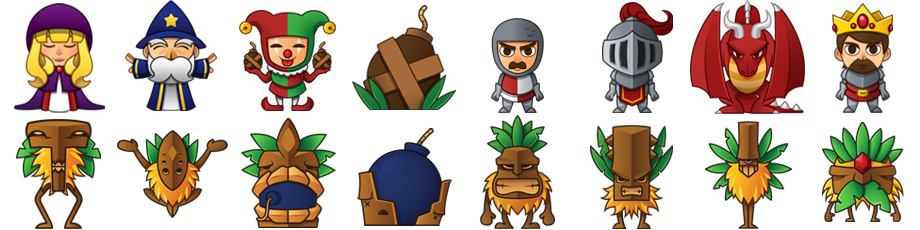
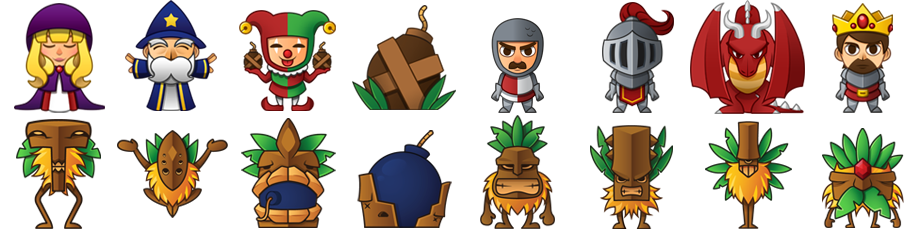
Switchable army

diff --git a/Proeve/States/ArmyEditorState.cs b/Proeve/States/ArmyEditorState.cs
@@ -25,6 +25,7 @@ namespace Proeve.States
 
         // Character
         private static Dictionary<Character.Rank, Sprite> armyDict;
+        private static Character.Army currentArmy;
 
         private Color SelectedColor { get { return Color.Black * .65f; } }
         private Character selectedCharacter;
@@ -49,6 +50,10 @@ namespace Proeve.States
         private Point startDragGridPosition;
         private float dragHoldTimer;
         private bool drag;
+
+        // Next Army Buttons
+        private Rectangle leftNextButtonHitbox { get { return new Rectangle(360, 196, 32, 50); } }
+        private Rectangle rightNextButtonHitbox { get { return new Rectangle(930, 196, 32, 50); } }
 
         public ArmyEditorState()
         {
@@ -103,12 +108,7 @@ namespace Proeve.States
 
             SelectCharacter(Armies.army[0]);
 
-            armyDict = new Dictionary<Character.Rank, Sprite>();
-            armyDict.Add(Character.Rank.Leader, ArtAssets.MedievalArmySheet); armyDict[Character.Rank.Leader].CurrentFrame = 8;
-            armyDict.Add(Character.Rank.General, ArtAssets.MedievalArmySheet); armyDict[Character.Rank.Leader].CurrentFrame = 7;
-            armyDict.Add(Character.Rank.Captain, ArtAssets.MedievalArmySheet); armyDict[Character.Rank.Leader].CurrentFrame = 6;
-            armyDict.Add(Character.Rank.Soldier, ArtAssets.MedievalArmySheet); armyDict[Character.Rank.Leader].CurrentFrame = 5;
-            armyDict.Add(Character.Rank.Bomb, ArtAssets.MedievalArmySheet); armyDict[Character.Rank.Leader].CurrentFrame = 8;     
+            SetArmyDictionary(Character.Army.Normal);
         }
 
         private void Ready()
@@ -145,6 +145,42 @@ namespace Proeve.States
                         {
                             SelectCharacter(c);
                         }
+
+                // Check switchable unit
+                foreach (KeyValuePair<Character.Rank, Sprite> entry in armyDict)
+                {
+                    Rectangle hitbox = new Rectangle((int)entry.Value.position.X, (int)entry.Value.position.Y, entry.Value.sourceRectangle.Width, entry.Value.sourceRectangle.Height);
+
+                    if (hitbox.Contains(Globals.mouseState.Position))
+                    {
+                        if (selectedCharacter.special == Character.Special.None)
+                        {
+                            if (selectedCharacter.rank == entry.Key)
+                                ChangeCharacter(entry.Key);
+                        }
+                        else
+                        {
+                            switch (entry.Key)
+                            {
+                                case Character.Rank.Spy:
+                                case Character.Rank.Miner:
+                                case Character.Rank.Healer:
+                                    ChangeCharacter(entry.Key);
+                                    break;
+                                case Character.Rank.Bomb:
+                                    if (selectedCharacter.rank == Character.Rank.Bomb)
+                                        ChangeCharacter(entry.Key);
+                                    break;
+                            }
+                        }
+                    }
+                }
+
+                if (leftNextButtonHitbox.Contains(Globals.mouseState.Position))
+                    SetArmyDictionary(currentArmy == Character.Army.Normal ? Character.Army.Tiki : Character.Army.Normal);
+
+                if (rightNextButtonHitbox.Contains(Globals.mouseState.Position))
+                    SetArmyDictionary(currentArmy == Character.Army.Normal ? Character.Army.Tiki : Character.Army.Normal);
             }
 
             if (drag && Globals.mouseState.LeftButtonReleased)
@@ -191,6 +227,52 @@ namespace Proeve.States
 
             dragHoldTimer = 0;
             startDragGridPosition = Grid.ToGridLocation(selectedCharacter.position.ToPoint(), gridLocation, Globals.TileDimensions);
+
+            
+        }
+
+        private void ChangeCharacter(Character.Rank rank)
+        {
+            Vector2 position = selectedCharacter.position;
+            int index = Armies.army.IndexOf(selectedCharacter);
+
+            Armies.army[index] = Armies.GetCharacter(rank, currentArmy);
+            Armies.army[index].position = position;
+
+            SelectCharacter(Armies.army[index]);
+        }
+
+        private void SetArmyDictionary(Character.Army army)
+        {
+            Sprite armySheet;
+
+            switch (army)
+            {
+                default:
+                case Character.Army.Normal: armySheet = ArtAssets.MedievalArmySheet; break;
+                case Character.Army.Tiki: armySheet = ArtAssets.TikiArmySheet; break;
+            }
+
+            armyDict = new Dictionary<Character.Rank, Sprite>();
+            armyDict.Add(Character.Rank.Leader, (Sprite)armySheet.Clone()); armyDict[Character.Rank.Leader].CurrentFrame = 8;
+            armyDict.Add(Character.Rank.General, (Sprite)armySheet.Clone()); armyDict[Character.Rank.General].CurrentFrame = 7;
+            armyDict.Add(Character.Rank.Captain, (Sprite)armySheet.Clone()); armyDict[Character.Rank.Captain].CurrentFrame = 6;
+            armyDict.Add(Character.Rank.Soldier, (Sprite)armySheet.Clone()); armyDict[Character.Rank.Soldier].CurrentFrame = 5;
+            armyDict.Add(Character.Rank.Bomb, (Sprite)armySheet.Clone()); armyDict[Character.Rank.Bomb].CurrentFrame = 4;
+            armyDict.Add(Character.Rank.Spy, (Sprite)armySheet.Clone()); armyDict[Character.Rank.Spy].CurrentFrame = 1;
+            armyDict.Add(Character.Rank.Miner, (Sprite)armySheet.Clone()); armyDict[Character.Rank.Miner].CurrentFrame = 3;
+            armyDict.Add(Character.Rank.Healer, (Sprite)armySheet.Clone()); armyDict[Character.Rank.Healer].CurrentFrame = 2;
+
+            armyDict[Character.Rank.Leader].position = new Vector2(422, 107);
+            armyDict[Character.Rank.General].position = new Vector2(542, 107);
+            armyDict[Character.Rank.Captain].position = new Vector2(662, 107);
+            armyDict[Character.Rank.Soldier].position = new Vector2(782, 107);
+            armyDict[Character.Rank.Bomb].position = new Vector2(422, 227);
+            armyDict[Character.Rank.Spy].position = new Vector2(542, 227);
+            armyDict[Character.Rank.Miner].position = new Vector2(662, 227);
+            armyDict[Character.Rank.Healer].position = new Vector2(782, 227);
+
+            currentArmy = army;
         }
 
         public override void Draw(SpriteBatch spriteBatch)
@@ -223,6 +305,29 @@ namespace Proeve.States
                 dragPos.Y = MathHelper.Clamp(dragPos.Y, GridArea.Top - H, GridArea.Bottom - H);
 
                 spriteBatch.DrawSprite(selectedCharacter.sprite, dragPos);
+            }
+
+            foreach (KeyValuePair<Character.Rank, Sprite> entry in armyDict)
+            {
+                entry.Value.Draw(spriteBatch);
+
+                if (selectedCharacter.rank != entry.Key)
+                {
+                    switch(entry.Key)
+                    {
+                        case Character.Rank.Miner:
+                        case Character.Rank.Spy:
+                        case Character.Rank.Healer:
+                            if (selectedCharacter.special == Character.Special.None || selectedCharacter.rank == Character.Rank.Bomb)
+                                goto default;
+                            break;
+                        default:
+                            Sprite clone = (Sprite)entry.Value.Clone();
+                            clone.colorEffect = Color.Black * .68f;
+                            clone.Draw(spriteBatch);
+                            break;
+                    }
+                }
             }
         }
 

diff --git a/Proeve/Resources/Armies.cs b/Proeve/Resources/Armies.cs
@@ -29,29 +29,28 @@ namespace Proeve.Resources
                 characters.Add(new List<Character>());
 
             characters[(int)Character.Rank.Leader].Add(new Character(ArtAssets.MedievalLeaderChip, AnimationAssets.MedievalLeader, 5, 2, Character.Rank.Leader));
-            characters[(int)Character.Rank.Leader].Add(new Character(ArtAssets.TikiLeaderChip, AnimationAssets.TikiLeader, 5, 2, Character.Rank.Leader));
+            characters[(int)Character.Rank.Leader].Add(new Character(ArtAssets.TikiLeaderChip, AnimationAssets.TikiLeader, 6, 1, Character.Rank.Leader));
 
             characters[(int)Character.Rank.General].Add(new Character(ArtAssets.MedievalGeneralChip, AnimationAssets.MedievalGeneral, 4, 2, Character.Rank.General));
-            characters[(int)Character.Rank.General].Add(new Character(ArtAssets.TikiGeneralChip, AnimationAssets.TikiGeneral, 4, 2, Character.Rank.General));
+            characters[(int)Character.Rank.General].Add(new Character(ArtAssets.TikiGeneralChip, AnimationAssets.TikiGeneral, 3, 3, Character.Rank.General));
 
-            characters[(int)Character.Rank.Captain].Add(new Character(ArtAssets.MedievalCaptainChip, AnimationAssets.MedievalCaptain, 3, 2, Character.Rank.Soldier));
-            characters[(int)Character.Rank.Captain].Add(new Character(ArtAssets.TikiCaptainChip, AnimationAssets.TikiCaptain, 3, 2, Character.Rank.Soldier));
+            characters[(int)Character.Rank.Captain].Add(new Character(ArtAssets.MedievalCaptainChip, AnimationAssets.MedievalCaptain, 3, 2, Character.Rank.Captain));
+            characters[(int)Character.Rank.Captain].Add(new Character(ArtAssets.TikiCaptainChip, AnimationAssets.TikiCaptain, 4, 1, Character.Rank.Captain));
 
             characters[(int)Character.Rank.Soldier].Add(new Character(ArtAssets.MedievalSoldierChip, AnimationAssets.MedievalSoldier, 2, 2, Character.Rank.Soldier));
-            characters[(int)Character.Rank.Soldier].Add(new Character(ArtAssets.TikiSoldierChip, AnimationAssets.TikiSoldier, 2, 2, Character.Rank.Soldier));
+            characters[(int)Character.Rank.Soldier].Add(new Character(ArtAssets.TikiSoldierChip, AnimationAssets.TikiSoldier, 3, 1, Character.Rank.Soldier));
 
-            characters[(int)Character.Rank.Spy].Add(new Character(ArtAssets.MedievalMinerChip, AnimationAssets.MedievalMiner, 1, 2, Character.Rank.Miner, Character.Army.Normal, Character.Special.Miner));
-            characters[(int)Character.Rank.Spy].Add(new Character(ArtAssets.TikiMinerChip, AnimationAssets.TikiMiner, 1, 2, Character.Rank.Miner, Character.Army.Normal, Character.Special.Miner));
+            characters[(int)Character.Rank.Spy].Add(new Character(ArtAssets.MedievalSpyChip, AnimationAssets.MedievalSpy, 1, 2, Character.Rank.Spy, Character.Army.Normal, Character.Special.Spy));
+            characters[(int)Character.Rank.Spy].Add(new Character(ArtAssets.TikiSpyChip, AnimationAssets.TikiSpy, 1, 2, Character.Rank.Spy, Character.Army.Normal, Character.Special.Spy));
 
             characters[(int)Character.Rank.Miner].Add(new Character(ArtAssets.MedievalMinerChip, AnimationAssets.MedievalMiner, 1, 2, Character.Rank.Miner, Character.Army.Normal, Character.Special.Miner));
-            characters[(int)Character.Rank.Miner].Add(new Character(ArtAssets.TikiMinerChip, AnimationAssets.TikiMiner, 1, 2, Character.Rank.Miner, Character.Army.Normal, Character.Special.Miner));
+            characters[(int)Character.Rank.Miner].Add(new Character(ArtAssets.TikiMinerChip, AnimationAssets.TikiMiner, 2, 1, Character.Rank.Miner, Character.Army.Normal, Character.Special.Miner));
 
-            characters[(int)Character.Rank.Healer].Add(new Character(ArtAssets.MedievalMinerChip, AnimationAssets.MedievalMiner, 1, 2, Character.Rank.Miner, Character.Army.Normal, Character.Special.Miner));
-            characters[(int)Character.Rank.Healer].Add(new Character(ArtAssets.TikiMinerChip, AnimationAssets.TikiMiner, 1, 2, Character.Rank.Miner, Character.Army.Normal, Character.Special.Miner));
+            characters[(int)Character.Rank.Healer].Add(new Character(ArtAssets.MedievalHealerChip, AnimationAssets.MedievalHealer, 1, 2, Character.Rank.Healer, Character.Army.Normal, Character.Special.Healer));
+            characters[(int)Character.Rank.Healer].Add(new Character(ArtAssets.TikiHealerChip, AnimationAssets.TikiHealer, 2, 1, Character.Rank.Healer, Character.Army.Normal, Character.Special.Healer));
 
             characters[(int)Character.Rank.Bomb].Add(new Character(ArtAssets.MedievalBombChip, AnimationAssets.MedievalBomb, 1, 1, Character.Rank.Bomb, Character.Army.Normal, Character.Special.Bomb));
             characters[(int)Character.Rank.Bomb].Add(new Character(ArtAssets.TikiBombChip, AnimationAssets.TikiBomb, 1, 1, Character.Rank.Bomb, Character.Army.Normal, Character.Special.Bomb));
-
         }
     }
 }

diff --git a/Proeve/Resources/ArtAssets.cs b/Proeve/Resources/ArtAssets.cs
@@ -135,7 +135,7 @@ namespace Proeve.Resources
 
         /* CHARACTERS */
         // Chips
-        public static Sprite MedievalSoldierChip { get { return (Sprite)tikiSoldierChipSprite.Clone(); } }
+        public static Sprite MedievalSoldierChip { get { return (Sprite)medievalSoldierChipSprite.Clone(); } }
         public static Sprite MedievalCaptainChip { get { return (Sprite)medievalCaptainChipSprite.Clone(); } }
         public static Sprite MedievalGeneralChip { get { return (Sprite)medievalGeneralChipSprite.Clone(); } }
         public static Sprite MedievalLeaderChip { get { return (Sprite)medievalLeaderChipSprite.Clone(); } }
@@ -267,8 +267,8 @@ namespace Proeve.Resources
             swordIconSprite = new Sprite(UISheet, new Rectangle(1293, 417, 86, 87), 2); swordIconSprite.Offset = new Point(1, 0); swordIconSprite.origin = axeIconSprite.Center;
             shieldIconSprite = new Sprite(UISheet, new Rectangle(1119, 417, 86, 87), 2); shieldIconSprite.Offset = new Point(1, 0); shieldIconSprite.origin = axeIconSprite.Center;
 
-            medievalArmySheet = new Sprite(armySheetTexture, new Rectangle(0, 0, 115, 115), 8, 0f, 1);
-            tikiArmySheet = new Sprite(armySheetTexture, new Rectangle(0, 0, 115, 115), 8, 0f, 1);
+            medievalArmySheet = new Sprite(armySheetTexture, new Rectangle(0, 0, 115, 115), 8);
+            tikiArmySheet = new Sprite(armySheetTexture, new Rectangle(0, 0, 115, 115), 8); tikiArmySheet.SheetPosition = new Point(0, 115);
 
             // Fighting
             damageTextSprite = new Sprite(damageTextTexture, new Rectangle(0, 0, 188, 32), 3, 0f, 1);
